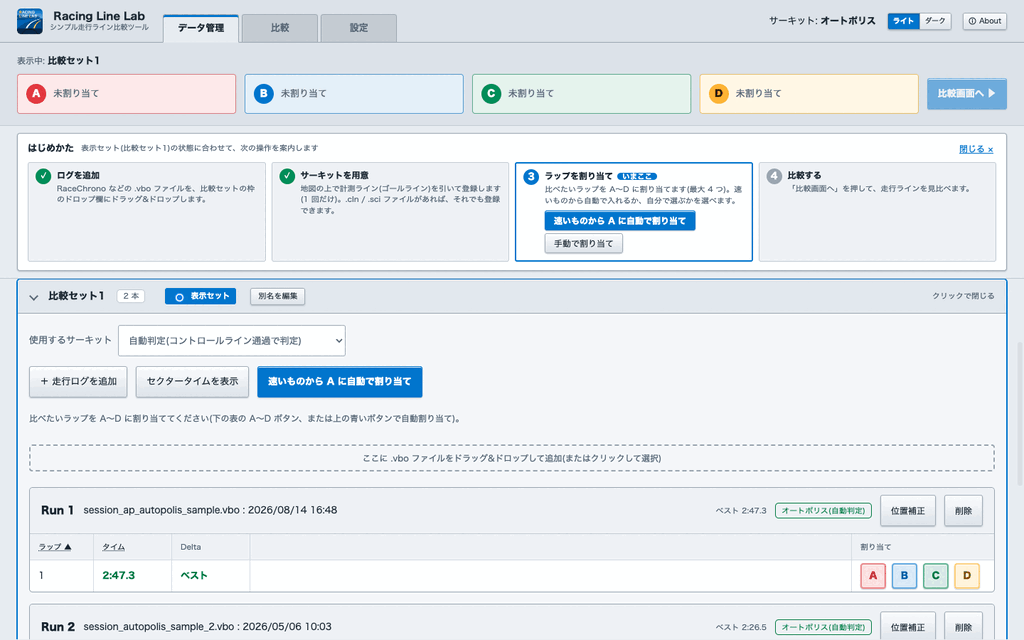
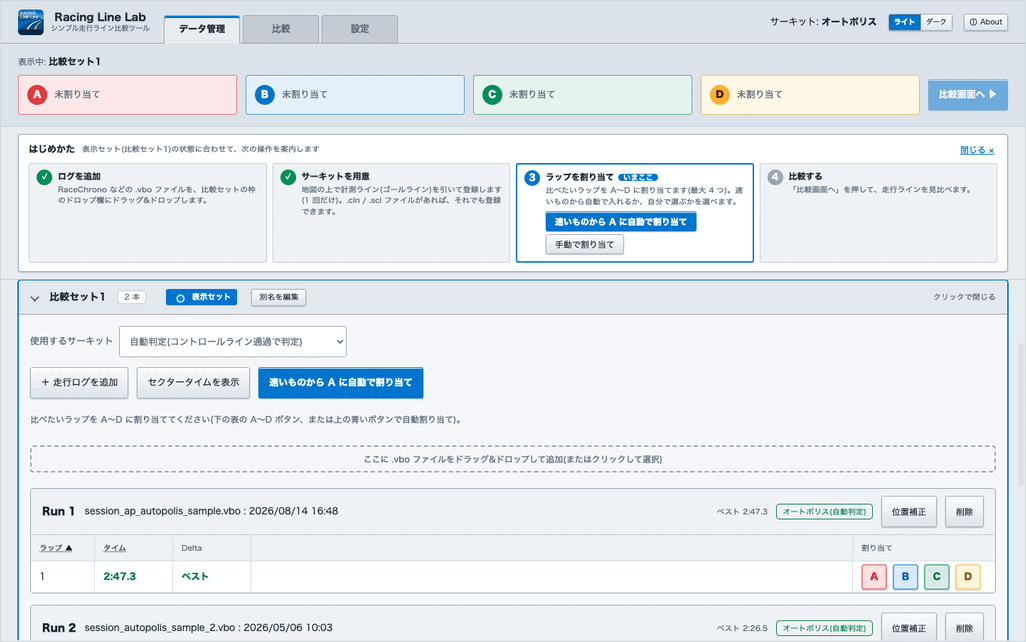
README の画像に枠線を付ける

diff --git a/src/style.css b/src/style.css
@@ -472,7 +472,7 @@ body.resizing iframe,body.resizing .map{pointer-events:none}
 .help p{margin:0 0 12px}
 .help ul,.help ol{margin:0 0 12px;padding-left:24px}
 .help li{margin:2px 0}
-.help img{display:block;max-width:100%;height:auto;margin:4px 0 16px;border:1px solid var(--border);border-radius:var(--r-m)}
+.help img{display:block;max-width:100%;height:auto;margin:4px 0 16px}     /* 枠線は画像そのものに入っている(GitHub でも同じに見えるように) */
 .help blockquote{margin:0 0 12px;padding:8px 12px;border-left:4px solid var(--accent);background:var(--sec-bg);color:var(--muted)}
 .help blockquote p:last-child{margin-bottom:0}
 .help code{font-size:12px;padding:1px 5px;border-radius:var(--r-s);background:var(--surface-2);border:1px solid var(--cell-line)}
